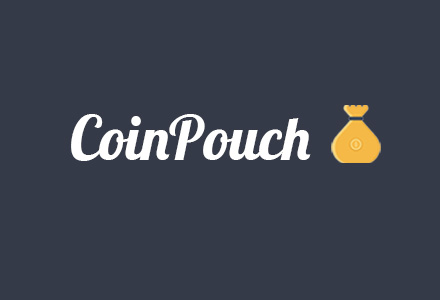
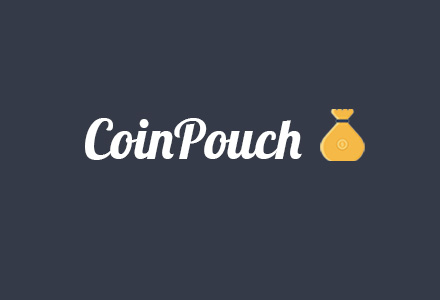
Thumbnail updates

Changed region(s): [[0.1477, 0.33, 0.8864, 0.57]]

diff --git a/css/style.css b/css/style.css
@@ -235,6 +235,8 @@ body {
 .project-card {
 	height: 300px;
 	background-size: cover;
+	background-position: center;
+	background-repeat: no-repeat;
 	position: relative;
 }
 
